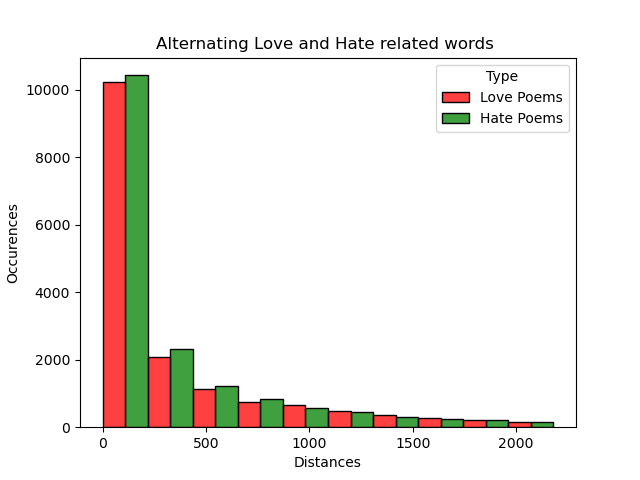
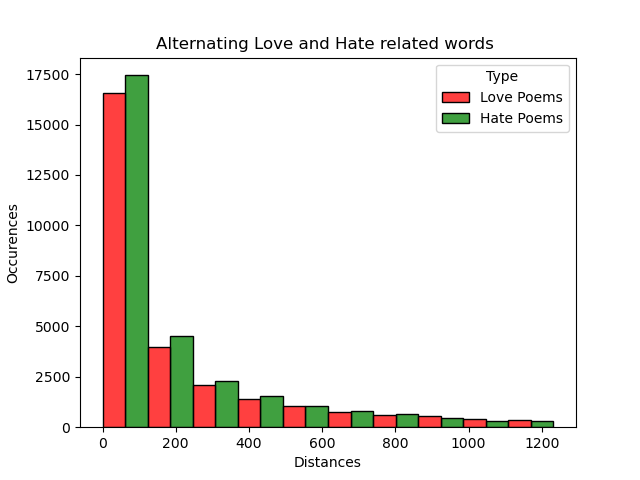
sequential_occurence_love_then_hate.py: Add stemming

diff --git a/sequential_occurence_love_then_hate.py b/sequential_occurence_love_then_hate.py
@@ -7,9 +7,11 @@ from nltk.tokenize import word_tokenize
 import pandas as pd
 import seaborn as sns
 import matplotlib.pyplot as plt
+from nltk.stem import PorterStemmer
 
 nltk.download('punkt')
 def distances_between_differing_words(poem_list, vocab1, vocab2):
+    stemmer = PorterStemmer()
     distances = []
      
     for poem in tqdm(poem_list, desc="Going through poems"):
@@ -19,7 +21,7 @@ def distances_between_differing_words(poem_list, vocab1, vocab2):
         vocabs = [vocab1,vocab2] 
         switch = 0
         for word in words:
-            if word in vocabs[switch]:
+            if stemmer.stem(word) in vocabs[switch]:
                 distances.append(distance) 
                 distance = 0
                 switch ^= 1
